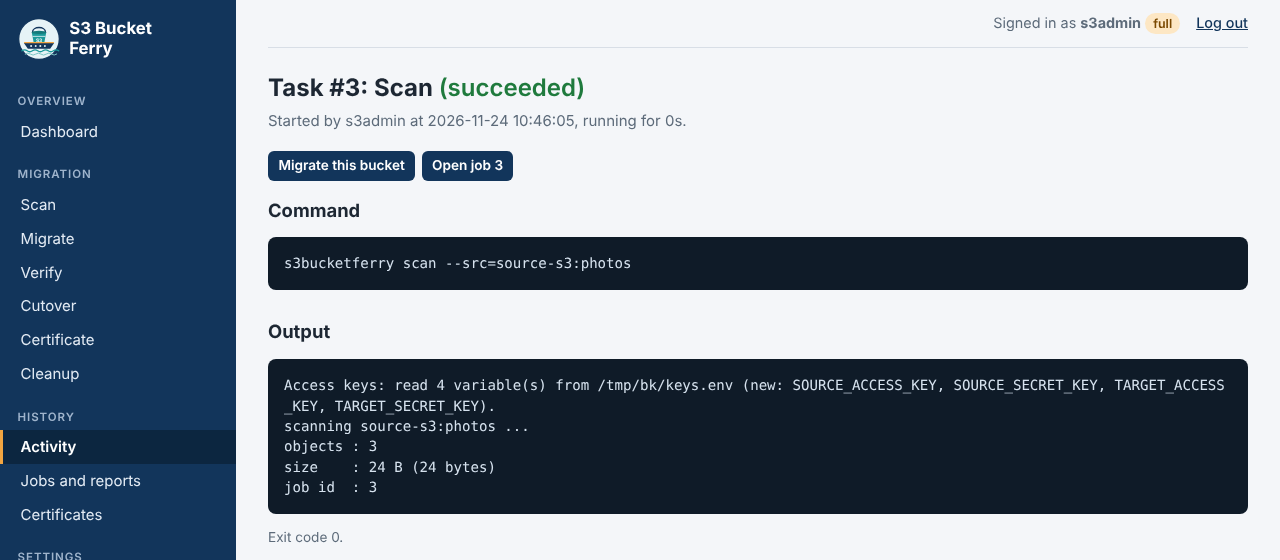
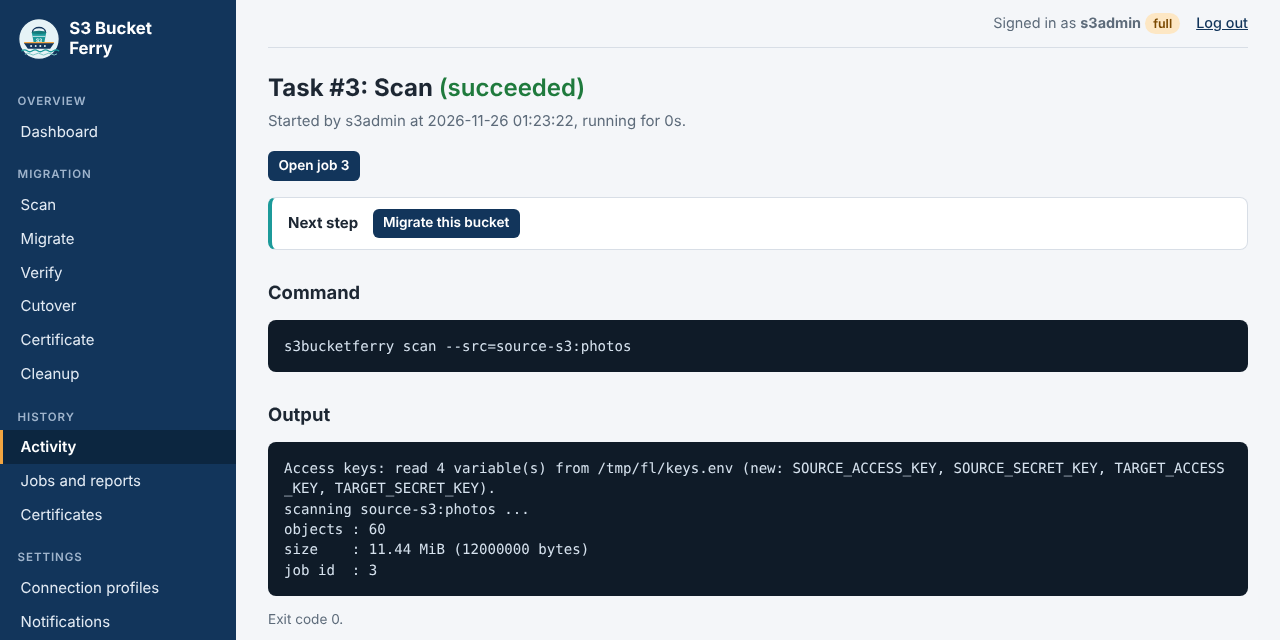
S3BucketFerry v0.4.2

diff --git a/docs/USER_GUIDE.md b/docs/USER_GUIDE.md
@@ -1,6 +1,6 @@
 # S3BucketFerry User Guide
 
-Version 0.4.1
+Version 0.4.2
 
 S3BucketFerry ("S3 Bucket Ferry") copies buckets from one S3-compatible storage
 system to another, checks every object, and issues a migration certificate at
@@ -37,7 +37,7 @@ The screenshots and sample output in this guide come from real migrations
 between two test S3 servers, `source-s3.example.com` and `target-s3.example.com`,
 mostly made with version 0.3.2. The screens are the same in later versions,
 except for the **User guide** link added in 0.3.3. Since 0.3.4 the web interface
-uses HTTPS (section 6), and since 0.3.5 `service setup` sets up its service. The profiles page gained **Edit** and a reminder about key variable names in 0.3.9. Your names, numbers and dates will differ.
+uses HTTPS (section 6), and since 0.3.5 `service setup` sets up its service. The profiles page gained **Edit** and a reminder about key variable names in 0.3.9, the task forms their bucket lists in 0.4.1, and the numbered step tabs, **Next step** and **Running now** came in 0.4.2: older screenshots show the task tabs without numbers. Your names, numbers and dates will differ.
 
 This guide is also built into the web interface: **Support > User guide**.
 
@@ -114,11 +114,11 @@ browser without internet access, and `USER_GUIDE.md`. Packages are on the
 
 | System | Package |
 |---|---|
-| Linux, Intel/AMD | `s3bucketferry-0.4.1-linux-amd64.tar.gz` |
-| Linux, ARM | `s3bucketferry-0.4.1-linux-arm64.tar.gz` |
-| Windows | `s3bucketferry-0.4.1-windows-amd64.zip` |
-| macOS, Intel | `s3bucketferry-0.4.1-macos-amd64.tar.gz` |
-| macOS, Apple silicon | `s3bucketferry-0.4.1-macos-arm64.tar.gz` |
+| Linux, Intel/AMD | `s3bucketferry-0.4.2-linux-amd64.tar.gz` |
+| Linux, ARM | `s3bucketferry-0.4.2-linux-arm64.tar.gz` |
+| Windows | `s3bucketferry-0.4.2-windows-amd64.zip` |
+| macOS, Intel | `s3bucketferry-0.4.2-macos-amd64.tar.gz` |
+| macOS, Apple silicon | `s3bucketferry-0.4.2-macos-arm64.tar.gz` |
 
 Every release also has `SHA256SUMS.txt`, which lets you confirm the download
 is complete and unaltered.
@@ -132,7 +132,7 @@ below and section 13.9. You never need Git.
 ### Linux
 
 ```bash
-VER=0.4.1
+VER=0.4.2
 BASE=https://github.com/debkhadanga2023-lgtm/S3BucketFerry/releases/download/v$VER
 cd /tmp
 curl -fLO $BASE/s3bucketferry-$VER-linux-amd64.tar.gz
@@ -154,7 +154,7 @@ which certificate to use.
 
 ### Windows
 
-1. Download `s3bucketferry-0.4.1-windows-amd64.zip`.
+1. Download `s3bucketferry-0.4.2-windows-amd64.zip`.
 2. Right-click the file, select **Extract All**, and extract to a folder such as
    `C:\S3BucketFerry`.
 3. Open **PowerShell** in that folder and run `.\s3bucketferry.exe version`.
@@ -176,8 +176,8 @@ installation.
 and download two files from the release you want:
 
 - the package for the S3BucketFerry machine, for example
-  `s3bucketferry-0.4.1-linux-amd64.tar.gz` or
-  `s3bucketferry-0.4.1-windows-amd64.zip`;
+  `s3bucketferry-0.4.2-linux-amd64.tar.gz` or
+  `s3bucketferry-0.4.2-windows-amd64.zip`;
 - `SHA256SUMS.txt`.
 
 Copy both to the S3BucketFerry machine, for example on a USB drive, over a file
@@ -188,9 +188,9 @@ the same folder.
 
 ```bash
 cd /tmp                                            # the folder you copied the two files to
-sha256sum -c --ignore-missing SHA256SUMS.txt       # must print: s3bucketferry-0.4.1-linux-amd64.tar.gz: OK
+sha256sum -c --ignore-missing SHA256SUMS.txt       # must print: s3bucketferry-0.4.2-linux-amd64.tar.gz: OK
 sudo mkdir -p /opt/s3bucketferry
-sudo tar -xzf s3bucketferry-0.4.1-linux-amd64.tar.gz -C /opt/s3bucketferry --strip-components=1
+sudo tar -xzf s3bucketferry-0.4.2-linux-amd64.tar.gz -C /opt/s3bucketferry --strip-components=1
 sudo ln -sf /opt/s3bucketferry/s3bucketferry /usr/local/bin/s3bucketferry
 s3bucketferry version
 s3bucketferry doctor
@@ -206,7 +206,7 @@ In PowerShell, in the folder you copied the two files to:
 
 ```powershell
 cd D:\                                                     # the folder with the two files
-(Get-FileHash .\s3bucketferry-0.4.1-windows-amd64.zip -Algorithm SHA256).Hash.ToLower()
+(Get-FileHash .\s3bucketferry-0.4.2-windows-amd64.zip -Algorithm SHA256).Hash.ToLower()
 Select-String -Path .\SHA256SUMS.txt -Pattern "windows-amd64.zip"
 ```
 
@@ -214,9 +214,9 @@ The two long values must be identical. (`certutil -hashfile <file> SHA256`
 shows the same value.) Then unpack the program into `C:\S3BucketFerry`:
 
 ```powershell
-Expand-Archive .\s3bucketferry-0.4.1-windows-amd64.zip -DestinationPath $env:TEMP\s3bf
+Expand-Archive .\s3bucketferry-0.4.2-windows-amd64.zip -DestinationPath $env:TEMP\s3bf
 New-Item -ItemType Directory -Force C:\S3BucketFerry | Out-Null
-Copy-Item $env:TEMP\s3bf\s3bucketferry-0.4.1-windows-amd64\* C:\S3BucketFerry -Recurse -Force
+Copy-Item $env:TEMP\s3bf\s3bucketferry-0.4.2-windows-amd64\* C:\S3BucketFerry -Recurse -Force
 cd C:\S3BucketFerry
 .\s3bucketferry.exe version
 .\s3bucketferry.exe doctor
@@ -1098,6 +1098,38 @@ a build from source), the page links to the guide on GitHub instead.
 
 ## 8. Migrate with the web interface
 
+The migration tasks are numbered steps, shown as tabs at the top of each task
+page: **1 Scan, 2 Migrate, 3 Verify, 4 Cutover, 5 Certificate**. The tabs carry
+the source and target you have chosen, so the next step opens with the same
+buckets. **Cleanup** sits apart on the right: it is not part of the flow and
+carries nothing.
+
+When a task finishes, its page (and its job's page) shows **Next step** with
+the usual follow-up, keeping the same buckets and settings:
+
+| Finished task | Next step offered |
+|---|---|
+| Scan | Migrate this bucket (dry run) |
+| Migrate, dry run | Run the migration for real |
+| Migrate | Verify · Cutover (dry run first) · Migrate again |
+| Migrate with failures | Migrate again (copies what is missing) |
+| Verify, no differences | Cutover (dry run first) · Issue a certificate |
+| Verify with differences | Migrate again (copies what differs) · Verify again |
+| Cutover, dry run | Run the cutover for real |
+| Cutover / Certificate | Open the certificate |
+
+The step you open is a form, filled in: check it and select its button. A
+link never ticks the confirmation for **Mirror deletes**; you tick that
+yourself.
+
+While anything runs, every page shows **Running now** under the top bar: each
+task with its source and target and its progress (here 17% of objects). Select
+it to open the task, where **Stop** is. Jobs started on the command line are
+listed too, marked **CLI**, and open their job page. The number beside
+**Activity** in the menu counts them.
+
+![Running now on the Verify page, and the numbered steps carrying the buckets](images/42-running-and-steps.png)
+
 ### 8.1 Scan the source
 
 **Migration > Scan**. Choose the source profile. The page then lists the
@@ -1115,16 +1147,16 @@ certificate or region problem with a hint. You can always type the bucket
 name instead.
 
 The scan counts the objects and adds up their size. Nothing is copied. When
-it has finished, its task page (and its job page) has **Migrate this
-bucket**. It opens **Migrate** with the scanned profile and bucket
-already filled in as the source; choose the target and continue with the
-dry run below.
+it has finished, its page shows **Next step: Migrate this bucket**. It opens
+**Migrate** with the scanned profile and bucket filled in as the source and
+**Dry run** ticked; choose the target and continue with the dry run below.
 
-![A finished scan: object count and size, and Migrate this bucket](images/40-scan-migrate-button.png)
+![A finished scan: object count and size, and Next step: Migrate this bucket](images/40-scan-migrate-button.png)
 
 ### 8.2 Dry run
 
-**Migration > Migrate**. Fill in the form and leave **Dry run** ticked:
+**Migration > Migrate** (or **2 Migrate**, or **Migrate this bucket** after the
+scan). Fill in the form and leave **Dry run** ticked:
 
 ![The Migrate form, with numbered fields](images/08-migrate-form.png)
 
@@ -1167,8 +1199,10 @@ spreadsheet.
 
 ### 8.4 First copy
 
-Open **Migrate** again, fill in the same source and target, **untick Dry run**,
-and select **Start migration**.
+After the dry run, select **Next step: Run the migration for real**. It opens
+**Migrate** with the same source, target and settings, and **Dry run**
+unticked; select **Start migration**. (Or open **Migrate** yourself, fill in
+the same source and target, and untick **Dry run**.)
 
 While it runs, the task page shows a live status panel. It refreshes every 3
 seconds; you can close the browser and come back, because the task keeps
@@ -1180,6 +1214,11 @@ Section 10 explains every number. When the copy finishes, S3BucketFerry
 compares source and target automatically. The job page then shows the result:
 
 ![Integrity check after the copy: PASSED](images/17b-integrity-check.png)
+
+When it has finished, **Next step** offers **Verify**, **Cutover (dry run
+first)** and **Migrate again**:
+
+![Next step after a migration](images/43-next-steps.png)
 
 **Stop** on the task page ends a running task. Objects already copied stay on
 the target, and **Resume** on the job's page continues where it stopped (see
@@ -1210,7 +1249,8 @@ have no comparable checksum.
 ### 8.7 Preview the cutover
 
 When you are ready to switch over, **stop all writes to the source bucket**.
-Then open **Migration > Cutover**. **Dry run** is ticked by default.
+Then open **Migration > Cutover** (or **Next step: Cutover (dry run first)**
+after a migration or a verification). **Dry run** is ticked by default.
 
 Tick **Mirror deletes** under **Advanced options** if the target must end up an
 exact copy, including removing objects that were deleted from the source
@@ -1221,8 +1261,10 @@ because nothing is deleted.
 
 ### 8.8 Cutover
 
-Open **Cutover** again, **untick Dry run**, and, if you use Mirror deletes, tick
-**I understand that mirror deletes removes objects from the target**:
+Select **Next step: Run the cutover for real** on the dry run's page (or open
+**Cutover** again and untick **Dry run**). If you use Mirror deletes, tick **I
+understand that mirror deletes removes objects from the target**: a link
+never ticks it for you.
 
 ![The Cutover form for the real run](images/24-cutover-real-form.png)
 
@@ -1871,7 +1913,7 @@ upgrade.
 
 ```bash
 s3bucketferry version                                           # what you have now
-sudo s3bucketferry upgrade --package /tmp/s3bucketferry-0.4.1-linux-amd64.tar.gz
+sudo s3bucketferry upgrade --package /tmp/s3bucketferry-0.4.2-linux-amd64.tar.gz
 ```
 
 It works exactly like the online upgrade (13.3): it checks the package against
@@ -1910,9 +1952,9 @@ the copy is complete and unaltered.
 
 ```bash
 cd /tmp
-tar -xzf s3bucketferry-0.4.1-linux-amd64.tar.gz
-sudo bash s3bucketferry-0.4.1-linux-amd64/upgrade.sh --dir /opt/s3bucketferry \
-     --package /tmp/s3bucketferry-0.4.1-linux-amd64.tar.gz
+tar -xzf s3bucketferry-0.4.2-linux-amd64.tar.gz
+sudo bash s3bucketferry-0.4.2-linux-amd64/upgrade.sh --dir /opt/s3bucketferry \
+     --package /tmp/s3bucketferry-0.4.2-linux-amd64.tar.gz
 ```
 
 From then on use `sudo s3bucketferry upgrade --package ...`.
@@ -1929,7 +1971,7 @@ instead of downloaded. In PowerShell:
 
 ```powershell
 cd D:\                                                     # the folder with the copied files
-(Get-FileHash .\s3bucketferry-0.4.1-windows-amd64.zip -Algorithm SHA256).Hash.ToLower()
+(Get-FileHash .\s3bucketferry-0.4.2-windows-amd64.zip -Algorithm SHA256).Hash.ToLower()
 Select-String -Path .\SHA256SUMS.txt -Pattern "windows-amd64.zip"   # must show the same value
 ```
 
@@ -1938,8 +1980,8 @@ Stop the web interface (Ctrl+C in its window), then:
 ```powershell
 Remove-Item C:\S3BucketFerry.previous -Recurse -Force -ErrorAction SilentlyContinue
 Copy-Item C:\S3BucketFerry C:\S3BucketFerry.previous -Recurse           # your rollback copy
-Expand-Archive .\s3bucketferry-0.4.1-windows-amd64.zip -DestinationPath $env:TEMP\s3bf -Force
-Copy-Item $env:TEMP\s3bf\s3bucketferry-0.4.1-windows-amd64\* C:\S3BucketFerry -Recurse -Force
+Expand-Archive .\s3bucketferry-0.4.2-windows-amd64.zip -DestinationPath $env:TEMP\s3bf -Force
+Copy-Item $env:TEMP\s3bf\s3bucketferry-0.4.2-windows-amd64\* C:\S3BucketFerry -Recurse -Force
 C:\S3BucketFerry\s3bucketferry.exe version
 ```
 

diff --git a/CHANGELOG.md b/CHANGELOG.md
@@ -1,5 +1,34 @@
 # Changelog
 
+## 0.4.2 - 2026-11-26
+
+- **The migration tasks are connected steps.** The task tabs are numbered
+  1 Scan, 2 Migrate, 3 Verify, 4 Cutover, 5 Certificate and carry the source and
+  target chosen in the form (updated as you change them), so the next step
+  opens with the same buckets. Cleanup is set apart and carries nothing.
+- **Next step after every finished task and job**: Scan -> Migrate this bucket
+  (dry run); dry run -> Run the migration for real; migrate -> Verify, Cutover
+  (dry run first), Migrate again; failures or differences -> Migrate again;
+  verify -> Cutover, Issue a certificate; cutover dry run -> Run the cutover
+  for real; cutover or certificate -> Open the certificate. Each opens the form
+  filled in with the same buckets and settings; nothing starts until you select
+  its button, and a link never ticks the Mirror deletes confirmation. Task
+  forms accept every setting in their address (`?src=...&dst=...&workers=4&
+  dry-run=off`).
+- **Running now on every page**: the tasks running (from the web interface,
+  linking to their page with Stop) and jobs started on the command line
+  (marked CLI, linking to their job page), each with its source, target and
+  progress; the menu shows their number beside Activity.
+- Fixed: the profiles page used an inline style that the page's security
+  policy blocked (a browser console error). A test now keeps inline styles
+  and scripts out of the templates.
+- User guide: section 8 opens with the steps, the next-step table and Running
+  now; 8.1, 8.2, 8.4, 8.7 and 8.8 use the new buttons; new and updated
+  screenshots. Help page updated to match.
+- Tests: next steps for every task and result, settings carried, the deletes
+  confirmation never prefilled, numbered tabs, and the Running now bar with a
+  web task, its job and a command-line job.
+
 ## 0.4.1 - 2026-11-24
 
 - **Bucket lists in the task forms.** Choosing a profile in Scan, Migrate,

diff --git a/README.md b/README.md
@@ -35,7 +35,7 @@ offline). Nothing else needs installing.
 ## Install on Linux
 
 ```bash
-VER=<version>        # for example 0.4.1
+VER=<version>        # for example 0.4.2
 BASE=https://github.com/debkhadanga2023-lgtm/S3BucketFerry/releases/download/v$VER
 cd /tmp
 curl -fLO $BASE/s3bucketferry-$VER-linux-amd64.tar.gz
